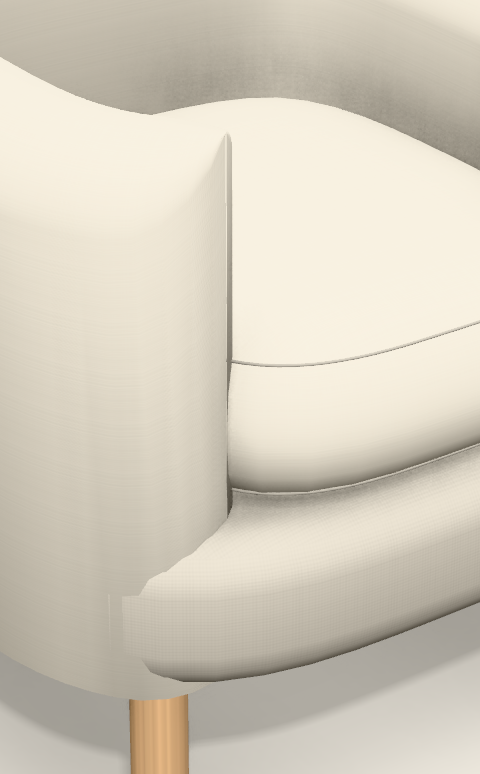
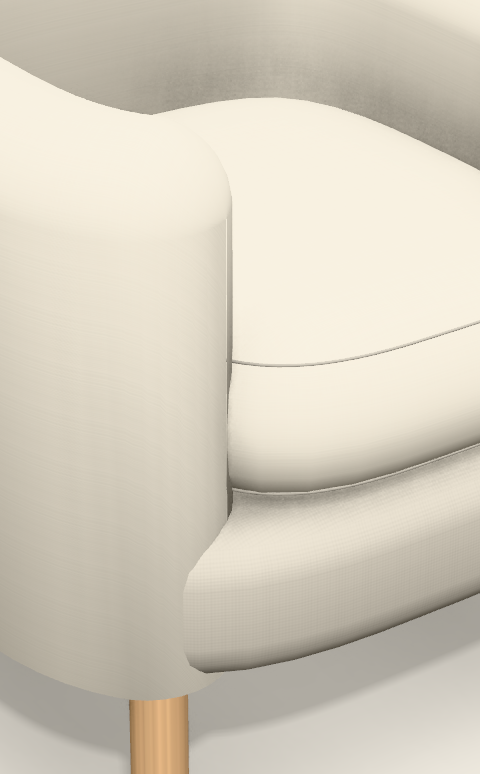
Kuipfauteuils: ronde kop aan het wanduiteinde, onderbouw binnen de wand, ronde onderrand bij een schelp
Gezien op 13/11 (Ross, close-up): het uiteinde van de wand was een dun mes, en naast het uiteinde stak
de onderbouw een haar door de wand.
- Weergave (`kuipwandGeometrie`): de kop loopt bovenaan als een kwart bol naar beneden, in 8 stappen, en de
  stof ligt er op ware lengte rond. Geldt voor alle gebogen wanden die in ringen getekend worden.
- Motor: bij een afgerond grondvlak ligt de buitenkant van de wand in de hoeken tot ±1 cm binnen de
  omtrek; de onderbouw krimpt zoveel extra (niet bij Pebble, daar is de zitting de vorm zelf).
- Schelp (Karl): de schaal zweeft, dus ook haar onderrand is rond (`afronding` op de wand), zoals op de foto.
Prijs, offerte, boven- en vooraanzicht van de 42 modellen: ongewijzigd. Beeldvergelijking: alleen de
close-up van Ross anders (1,86 %, referentie vernieuwd); Pebble, Doha en de rest 0,00 %.

Claude-Session: https://claude.ai/code/session_01PczewFp9M8BS44vqTSpk6u

diff --git a/packages/demo-web/src/drie-d.ts b/packages/demo-web/src/drie-d.ts
@@ -983,7 +983,7 @@ export function maak3D(houder: HTMLElement, opties: Opties3D = {}): Viewer3D | n
    * Kuipwand: een gestoffeerde wand langs een gebogen middenlijn (`pad`, wereld x/z), met per punt een eigen
    * bovenhoogte, een volledig afgeronde bovenrand en afgeronde uiteinden. Vorm rond (ox, oy, oz).
    */
-  function kuipwandGeometrie(pad: [number, number][], hoogtes: number[], dikte: number, onder: number, ox: number, oz: number, buren: Doos[] = [], tegel = 0) {
+  function kuipwandGeometrie(pad: [number, number][], hoogtes: number[], dikte: number, onder: number, ox: number, oz: number, buren: Doos[] = [], tegel = 0, onderRond = 0) {
     const w = dikte / 2;
     const n = pad.length;
     // Richting en zijwaartse normaal per punt.
@@ -992,25 +992,41 @@ export function maak3D(houder: HTMLElement, opties: Opties3D = {}): Viewer3D | n
       const tx = c[0] - a[0], tz = c[1] - a[1], l = Math.hypot(tx, tz) || 1;
       return { tx: tx / l, tz: tz / l, nx: tz / l, nz: -tx / l };
     });
-    // Profiel (dwarsdoorsnede): onderkant, zijkant op, halve cirkel over de top, zijkant neer.
+    // Profiel (dwarsdoorsnede): onderkant, zijkant op, halve cirkel over de top, zijkant neer. Met `onderRond` (een schaal
+    // die boven de zitting zweeft, waar je de onderrand ziet) zijn ook de twee onderhoeken afgerond, tot die straal.
     const profiel = (hoog: number, breed: number): [number, number][] => {
       const r = Math.min(breed, Math.max(0.5, hoog - 0.5));
-      const pts: [number, number][] = [[-breed, 0], [-breed, Math.max(0, hoog - r)]];
+      const rb = Math.max(0, Math.min(onderRond, breed, hoog - r));
+      const pts: [number, number][] = [];
+      if (onderRond > 0) for (let k = 0; k < 4; k++) { const a = (k / 4) * (Math.PI / 2); pts.push([-breed + rb - rb * Math.sin(a), rb - rb * Math.cos(a)]); }
+      else pts.push([-breed, 0]);
+      pts.push([-breed, Math.max(rb, hoog - r)]);
       for (let k = 1; k < 12; k++) { const a = Math.PI - (k / 12) * Math.PI; pts.push([Math.cos(a) * breed, hoog - r + Math.sin(a) * r]); }
-      pts.push([breed, Math.max(0, hoog - r)], [breed, 0]);
+      pts.push([breed, Math.max(rb, hoog - r)]);
+      if (onderRond > 0) for (let k = 3; k >= 0; k--) { const a = (k / 4) * (Math.PI / 2); pts.push([breed - rb + rb * Math.sin(a), rb - rb * Math.cos(a)]); }
+      else pts.push([breed, 0]);
       return pts;
     };
-    // Ringen langs de middenlijn, met afgeronde uiteinden (de breedte loopt als een kwartcirkel af).
-    type Ring = { x: number; z: number; nx: number; nz: number; hoog: number; breed: number };
+    // Ringen langs de middenlijn, met een ronde kop aan elk uiteinde: in het grondvlak half rond, en bovenaan loopt de
+    // kop als een kwart bol naar beneden (zoals het einde van een gestoffeerde arm, en zoals de zachte vorm van dezelfde
+    // wand). Vroeger bleef de hoogte tot aan de punt gelijk: dat gaf een dun, scherp mes (Ross, analyse van 13/11).
+    type Ring = { x: number; z: number; nx: number; nz: number; hoog: number; breed: number; kop?: boolean; voet?: number };
     const ringen: Ring[] = [];
+    const KOP = 8;
     const eind = (i: number, richting: number) => {
       const q = pad[i]!, r = zij[i]!, hoog = hoogtes[i]! - onder;
       const stap = richting < 0 ? [ -r.tx, -r.tz ] : [ r.tx, r.tz ];
+      // Straal van de ronding bovenaan (zoals in het profiel van de volle wand): een lage wand rondt minder diep af.
+      const rTop = Math.min(w, Math.max(0.5, hoog - 0.5));
+      // Met een ronde onderrand komt de kop ook onderaan omhoog (een zwevende schaal eindigt rondom rond).
+      const rVoet = Math.max(0, Math.min(onderRond, w, hoog - rTop));
       const reeks: Ring[] = [];
-      for (let k = 5; k >= 1; k--) {
-        const f = k / 5, a = (f * Math.PI) / 2;
-        // Uiteinde: in het grondvlak half rond, de hoogte blijft (geen knik in de arm).
-        reeks.push({ x: q[0] + stap[0]! * w * Math.sin(a), z: q[1] + stap[1]! * w * Math.sin(a), nx: r.nx, nz: r.nz, hoog: Math.max(0.6, hoog), breed: Math.max(0.05, w * Math.cos(a)) });
+      for (let k = KOP; k >= 1; k--) {
+        const a = ((k / KOP) * Math.PI) / 2;
+        reeks.push({
+          x: q[0] + stap[0]! * w * Math.sin(a), z: q[1] + stap[1]! * w * Math.sin(a), nx: r.nx, nz: r.nz,
+          hoog: Math.max(0.6, hoog - rTop * (1 - Math.cos(a))), breed: Math.max(0.05, w * Math.cos(a)), kop: true, voet: rVoet * (1 - Math.cos(a)),
+        });
       }
       return reeks;
     };
@@ -1022,8 +1038,10 @@ export function maak3D(houder: HTMLElement, opties: Opties3D = {}): Viewer3D | n
     const pos: number[] = [], uvs: number[] = [];
     let langs = 0;
     ringen.forEach((r, i) => {
-      if (i > 0) langs += Math.hypot(r.x - ringen[i - 1]!.x, r.z - ringen[i - 1]!.z);
-      const pr = profiel(r.hoog, r.breed);
+      // Langs de wand in cm; rond een kop de booglengte (de afstand tussen de ringen is daar korter dan de stof).
+      if (i > 0) langs += r.kop || ringen[i - 1]!.kop ? (w * Math.PI) / 2 / KOP : Math.hypot(r.x - ringen[i - 1]!.x, r.z - ringen[i - 1]!.z);
+      const voet = Math.min(r.voet ?? 0, r.hoog - 0.6);
+      const pr = profiel(r.hoog - voet, r.breed).map(([u, y]) => [u, y + voet] as [number, number]);
       pr.push(pr[0]!);
       // Textuurmaat rond het profiel van de volle wand (ook in de afgeronde uiteinden), anders drukt ze samen tot strepen.
       const ref = profiel(r.hoog, w);
@@ -1178,7 +1196,7 @@ export function maak3D(houder: HTMLElement, opties: Opties3D = {}): Viewer3D | n
     if (b.vorm === 'kuipwand' && b.pad && b.hoogtes) {
       const cxo = b.x + b.b / 2, czo = b.z + b.d / 2;
       const tegelCm = b.textuur ? b.textuurCm ?? 15 : b.weefsel && b.weefsel in WEEFSEL_CM ? WEEFSEL_CM[b.weefsel as Weefsel] : 1;
-      const g = kuipwandGeometrie(b.pad, b.hoogtes, b.dikte ?? 14, b.y, cxo, czo, opties.zetel ? burenVan(b) : [], tegelCm);
+      const g = kuipwandGeometrie(b.pad, b.hoogtes, b.dikte ?? 14, b.y, cxo, czo, opties.zetel ? burenVan(b) : [], tegelCm, b.afronding ?? 0);
       const base = materiaal(b);
       const sleutel = `vc:${base.uuid}`;
       let mat = materialen.get(sleutel);

diff --git a/packages/core/src/ruimtelijk.ts b/packages/core/src/ruimtelijk.ts
@@ -36,7 +36,7 @@ export interface Blok {
   h: number;
   d: number;
   kleur: string;
-  /** Afronding van de randen (cm), voor kussens en armen. */
+  /** Afronding van de randen (cm), voor kussens en armen. Bij een kuipwand: de afronding van de onderrand (zwevende schaal). */
   afronding?: number;
   /** Bolling van een kussen in cm (midden van het dunste vlak); leeg = standaard (max. 2,2 cm). */
   bol?: number;
@@ -439,7 +439,26 @@ export function bouw3D(ontwerp: Ontwerp, catalogus: OntwerpCatalogus, materialen
           const opb = kuipOpbouw(B, D, { P, zithoogte, rugH, kussenDik }, kp, losseRug);
           // De onderbouw net binnen de wand (0,8 cm): anders vallen de buitenkant van de wand en de zijkant van de onderbouw
           // samen, en dat gaf vlekken en strepen op de onderbouw (z-fighting). Bij een schelp staat de wand niet op de onderbouw.
-          const krimp = kp.zwevend ? 0 : 0.8;
+          // De buitenkant van de wand ligt niet overal op de omtrek: bij een afgerond grondvlak tot ±1 cm erbinnen in de
+          // hoeken (de middenlijn is een kleiner grondvlak, geen evenwijdige lijn). Daar stak de onderbouw een haar door de
+          // wand: een dun streepje naast het wanduiteinde (Ross, 13/11). Daarom krimpt de onderbouw zoveel extra als de
+          // omtrek op zijn verst buiten de wand ligt, gemeten onder de wand zelf (niet voorbij zijn uiteinden).
+          // Niet bij de kiezel (Pebble): daar is de zitting de vorm zelf en de schaal een eigen zachte vorm (goedgekeurd op 5/11).
+          let buitenWand = 0;
+          if (!kp.zwevend && !kp.organisch) {
+            const wp = opb.wand.pad, half = opb.wand.dikte / 2;
+            for (const [x, y] of opb.plan) {
+              let beste = Infinity, binnenPad = false;
+              for (let i = 0; i < wp.length - 1; i++) {
+                const ax = wp[i]![0], ay = wp[i]![1], ux = wp[i + 1]![0] - ax, uy = wp[i + 1]![1] - ay;
+                const f = ((x - ax) * ux + (y - ay) * uy) / (ux * ux + uy * uy || 1e-9), g = Math.max(0, Math.min(1, f));
+                const d = Math.hypot(x - ax - g * ux, y - ay - g * uy);
+                if (d < beste) { beste = d; binnenPad = !((i === 0 && f < 0) || (i === wp.length - 2 && f > 1)); }
+              }
+              if (binnenPad) buitenWand = Math.max(buitenWand, beste - half);
+            }
+          }
+          const krimp = kp.zwevend ? 0 : r2(0.8 + buitenWand);
           const basisPlan = opb.plan.map(([x, y]) => [B / 2 + (x - B / 2) * (1 - krimp / (B / 2)), D / 2 + (y - D / 2) * (1 - krimp / (D / 2))] as Punt);
           // Organisch (Pebble): de zitting is één zachte kiezel in de stof (geen donkere onderbouw met een los kussen erop) en
           // de schaal een eigen zachte vorm met ronde uiteinden (glad, zoals de doorlopende zetel), in plaats van een wand die
@@ -459,6 +478,8 @@ export function bouw3D(ontwerp: Ontwerp, catalogus: OntwerpCatalogus, materialen
             code: `${e.id}.rug`, soort: 'stof', vorm: 'kuipwand',
             x: r2(Math.min(...xs) - half), z: r2(Math.min(...zs) - half), b: r2(Math.max(...xs) - Math.min(...xs) + 2 * half), d: r2(Math.max(...zs) - Math.min(...zs) + 2 * half),
             y: r2(wandOnder), h: r2(Math.max(...opb.wand.hoogtes) - wandOnder), kleur: stof, pad, hoogtes: opb.wand.hoogtes, dikte: r2(opb.wand.dikte),
+            // Schelp: de schaal zweeft boven de zitting, dus je ziet haar onderrand: ook die rond (zoals op de foto van Karl).
+            ...(kp.zwevend ? { afronding: r2(opb.wand.dikte / 2) } : {}),
             ...(kiezel ? { glad: true } : {}),
           });
           if (kp.zwevend) {

diff --git a/packages/core/test/modellen.test.ts b/packages/core/test/modellen.test.ts
@@ -185,6 +185,37 @@ describe('verdekte voet volgt de vorm (geen vierkante plaat onder een rond meube
   });
 });
 
+describe('kuipfauteuils: onderbouw binnen de wand, ronde onderrand bij een zwevende schaal (13/11)', () => {
+  const blokken = (code: string) => bouw3D(structuredClone(zetelModellen.find((m) => m.code === code)!.ontwerp), zetelCatalogus, standaardMaterialen).blokken;
+  /** Kleinste speling van de onderbouw binnen de buitenkant van de wand, gemeten onder de wand zelf (niet voorbij zijn uiteinden). */
+  const speling = (code: string) => {
+    const b = blokken(code), rug = b.find((x) => x.code === 'e1.rug')!, basis = b.find((x) => x.code === 'e1.basis')!;
+    const wp = rug.pad!, half = rug.dikte! / 2;
+    let kleinst = Infinity;
+    for (const [x, z] of basis.omtrek!) {
+      let beste = Infinity, onderWand = false;
+      for (let i = 0; i < wp.length - 1; i++) {
+        const ax = wp[i]![0], az = wp[i]![1], ux = wp[i + 1]![0] - ax, uz = wp[i + 1]![1] - az;
+        const f = ((x - ax) * ux + (z - az) * uz) / (ux * ux + uz * uz), g = Math.max(0, Math.min(1, f));
+        const d = Math.hypot(x - ax - g * ux, z - az - g * uz);
+        if (d < beste) { beste = d; onderWand = !((i === 0 && f < 0) || (i === wp.length - 2 && f > 1)); }
+      }
+      if (onderWand) kleinst = Math.min(kleinst, half - beste);
+    }
+    return kleinst;
+  };
+  it('de onderbouw steekt nergens door de wand (vroeger een dun streepje naast het wanduiteinde van Ross)', () => {
+    // Bij een afgerond grondvlak ligt de buitenkant van de wand in de hoeken tot ±1 cm binnen de omtrek.
+    for (const code of ['ross', 'mabel-1', 'sullivan', 'tumble', 'quin', 'satie', 'fraser', 'milton', 'manon'])
+      expect(speling(code), code).toBeGreaterThan(0.7);
+  });
+  it('alleen de zwevende schaal (Karl) krijgt een ronde onderrand; een wand op de onderbouw niet', () => {
+    const karl = blokken('karl').find((x) => x.code === 'e1.rug')!;
+    expect(karl.afronding).toBeCloseTo(karl.dikte! / 2, 2);
+    for (const code of ['ross', 'tumble', 'quin', 'pebble']) expect(blokken(code).find((x) => x.code === 'e1.rug')!.afronding, code).toBeUndefined();
+  });
+});
+
 describe('Pebble (kuipvorm organisch): zachte kiezel met een schaal, geen losse lagen', () => {
   const blokken = (code: string) => bouw3D(structuredClone(zetelModellen.find((m) => m.code === code)!.ontwerp), zetelCatalogus, standaardMaterialen).blokken;
   it('zitting is één zacht blok in de stof tot op zithoogte, zonder los zitkussen; de schaal is glad en staat op de vloer', () => {
